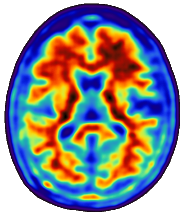
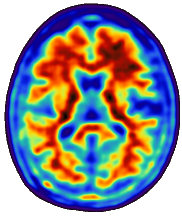
update figures

diff --git a/Demonstration.md b/Demonstration.md
@@ -30,6 +30,7 @@ import inspect
 ```python
 MRI_PATH = 'MPRAGE.nii.gz'
 PET_PATH = 'FBB.nii'
+PET_DYNAMIC_PATH = 'FBB_dynamic.nii'
 
 TEMPLATE_PATH = 'MNI152_T1_1mm.nii.gz'
 ```
@@ -58,13 +59,56 @@ MRI = bb.load(
 
 PET = bb.load(
   PET_PATH,
-  colormap="soft-nih",
+  colormap="nih",
+  interp='NEAREST',
+  scale=1,
+  sharpen=0,
+  threshold=(100,10000)
+)
+
+PET_dynamic = bb.load(
+  PET_DYNAMIC_PATH,
+  colormap="nih",
   interp='NEAREST',
   scale=1,
   sharpen=0,
   threshold=(100,10000)
 )
 ```
+
+
+    ---------------------------------------------------------------------------
+
+    ImageGeometryError                        Traceback (most recent call last)
+
+    Cell In[8], line 20
+         16   sharpen=0,
+         17   threshold=(100,10000)
+         18 )
+         19 
+    ---> 20 PET_dynamic = bb.load(
+         21   PET_DYNAMIC_PATH,
+         22   colormap="nih",
+         23   interp='NEAREST',
+
+
+    File ~/Documents/QC_images/beautiful-brains/src/beautiful_brains/image.py:566, in load(path, LUT, colormap, threshold, indices, scale, interp, sharpen, bias_correction, debug)
+        563     return _load_bbi(path, debug=debug)
+        565 _debug_print(debug, f"loading image: {path}")
+    --> 566 volume = load_volume(path)
+        567 _debug_print(debug, f"loaded image shape: {volume.data.shape}")
+        568 parsed_indices = _parse_indices(indices)
+
+
+    File ~/Documents/QC_images/beautiful-brains/src/beautiful_brains/io.py:52, in load_volume(path, canonical)
+         50 data = np.asarray(image.get_fdata(dtype=np.float32))
+         51 if data.ndim != 3:
+    ---> 52     raise ImageGeometryError(f"Only 3D images are supported right now: {path}")
+         53 return Volume(path=path, image=image, data=data, affine=np.asarray(image.affine))
+
+
+    ImageGeometryError: Only 3D images are supported right now: FBB_dynamic.nii
+
 
 ## Transformations
 
@@ -536,6 +580,72 @@ img
 
 ```
 
+### Create movies 
+
+
+```python
+print(inspect.signature(bb.make_video))
+```
+
+    (frames: 'Iterable[Any]', timing: 'float', filepath: 'str | Path') -> 'Path'
+
+
+
+```python
+
+```
+
+
+
+
+    array([50, 51, 52, 53, 54, 55, 56, 57, 58, 59, 60, 61, 62, 63, 64, 65, 66,
+           67, 68, 69, 70, 71, 72, 73, 74, 75, 76, 77, 78, 79, 80, 81, 82, 83,
+           84, 85, 86, 87, 88, 89, 90, 91, 92, 93, 94, 95, 96, 97, 98, 99])
+
+
+
+
+```python
+slices[:-1:][::-1]
+```
+
+
+
+
+    array([99, 98, 97, 96, 95, 94, 93, 92, 91, 90, 89, 88, 87, 86, 85, 84, 83,
+           82, 81, 80, 79, 78, 77, 76, 75, 74, 73, 72, 71, 70, 69, 68, 67, 66,
+           65, 64, 63, 62, 61, 60, 59, 58, 57, 56, 55, 54, 53, 52, 51, 50])
+
+
+
+
+```python
+Ratio = PET.slice(120,'axial').size
+slices = list(np.arange(50,101,1))
+slices.extend(slices[:-1:][::-1])
+time = 0.1
+frames = []
+for i,slice_i in enumerate(slices):
+    fig = bb.bbfigure(
+      size=3,
+      grid=(1, 1),
+      dpi=300,
+        box_ratio=(Ratio[0]/Ratio[1]),
+      background=(0, 0, 0, 0),
+    )
+    fig[0, 0] = PET.slice(int(slice_i), "axial")
+    frames.append(fig)
+
+bb.make_video(frames,time,'video.webp')
+```
+
+
+
+
+    PosixPath('video.webp')
+
+
+
 ### You can use any matplotlib ListedColormap or make your own
 
 
@@ -559,7 +669,7 @@ bb.colorbar(colormap='nih', height=50, length=500)
 
 
     
-![png](Demonstration_files/Demonstration_62_0.png)
+![png](Demonstration_files/Demonstration_67_0.png)
     
 
 
@@ -574,7 +684,7 @@ bb.colorbar(colormap='soft-nih', height=50, length=500)
 
 
     
-![png](Demonstration_files/Demonstration_63_0.png)
+![png](Demonstration_files/Demonstration_68_0.png)
     
 
 
@@ -588,7 +698,7 @@ bb.colorbar(colormap='gray', height=50, length=500)
 
 
     
-![png](Demonstration_files/Demonstration_64_0.png)
+![png](Demonstration_files/Demonstration_69_0.png)
     
 
 
@@ -602,7 +712,7 @@ bb.colorbar(colormap='viridis', height=50, length=500)
 
 
     
-![png](Demonstration_files/Demonstration_65_0.png)
+![png](Demonstration_files/Demonstration_70_0.png)
     
 
 
@@ -616,7 +726,7 @@ bb.colorbar(colormap='plasma', height=50, length=500)
 
 
     
-![png](Demonstration_files/Demonstration_66_0.png)
+![png](Demonstration_files/Demonstration_71_0.png)
     
 
 
@@ -630,7 +740,7 @@ bb.colorbar(colormap='jet', height=50, length=500)
 
 
     
-![png](Demonstration_files/Demonstration_67_0.png)
+![png](Demonstration_files/Demonstration_72_0.png)
     
 
 
@@ -644,7 +754,7 @@ bb.colorbar(colormap='hot', height=50, length=500)
 
 
     
-![png](Demonstration_files/Demonstration_68_0.png)
+![png](Demonstration_files/Demonstration_73_0.png)
     
 
 
@@ -658,7 +768,7 @@ bb.colorbar(colormap='bone', height=50, length=500)
 
 
     
-![png](Demonstration_files/Demonstration_69_0.png)
+![png](Demonstration_files/Demonstration_74_0.png)
     
 
 
@@ -672,7 +782,7 @@ bb.colorbar(colormap='copper', height=50, length=500)
 
 
     
-![png](Demonstration_files/Demonstration_70_0.png)
+![png](Demonstration_files/Demonstration_75_0.png)
     
 
 
